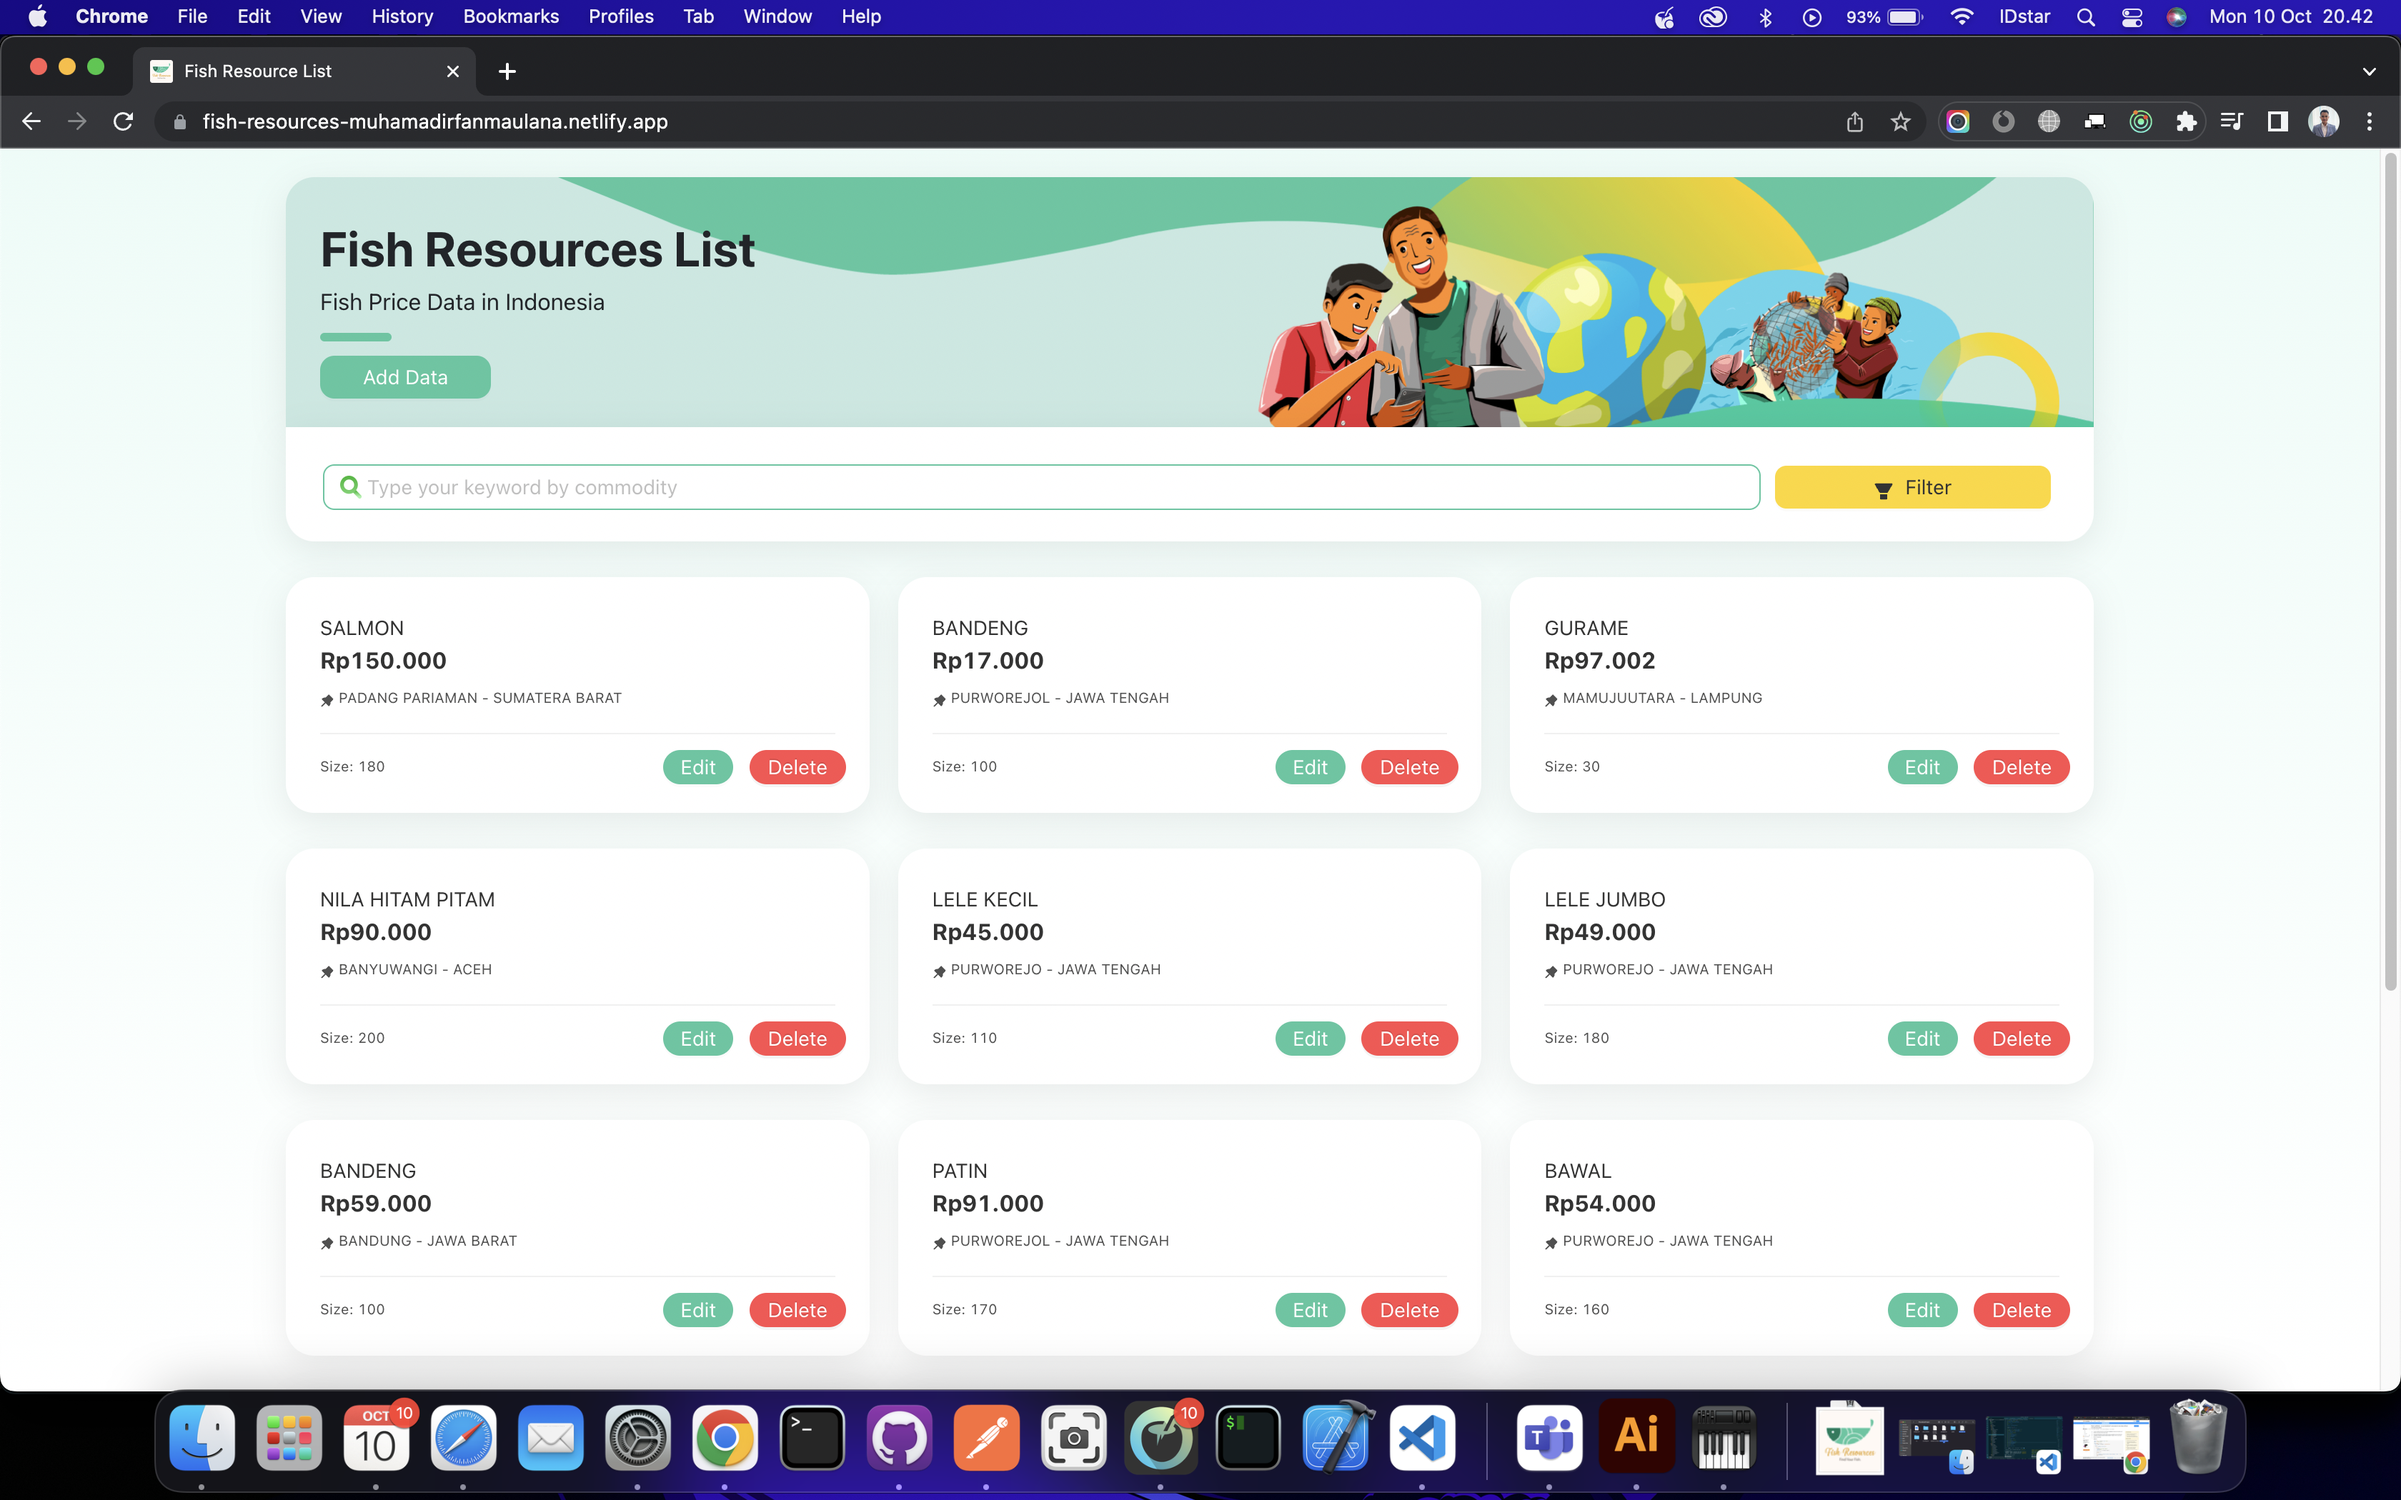
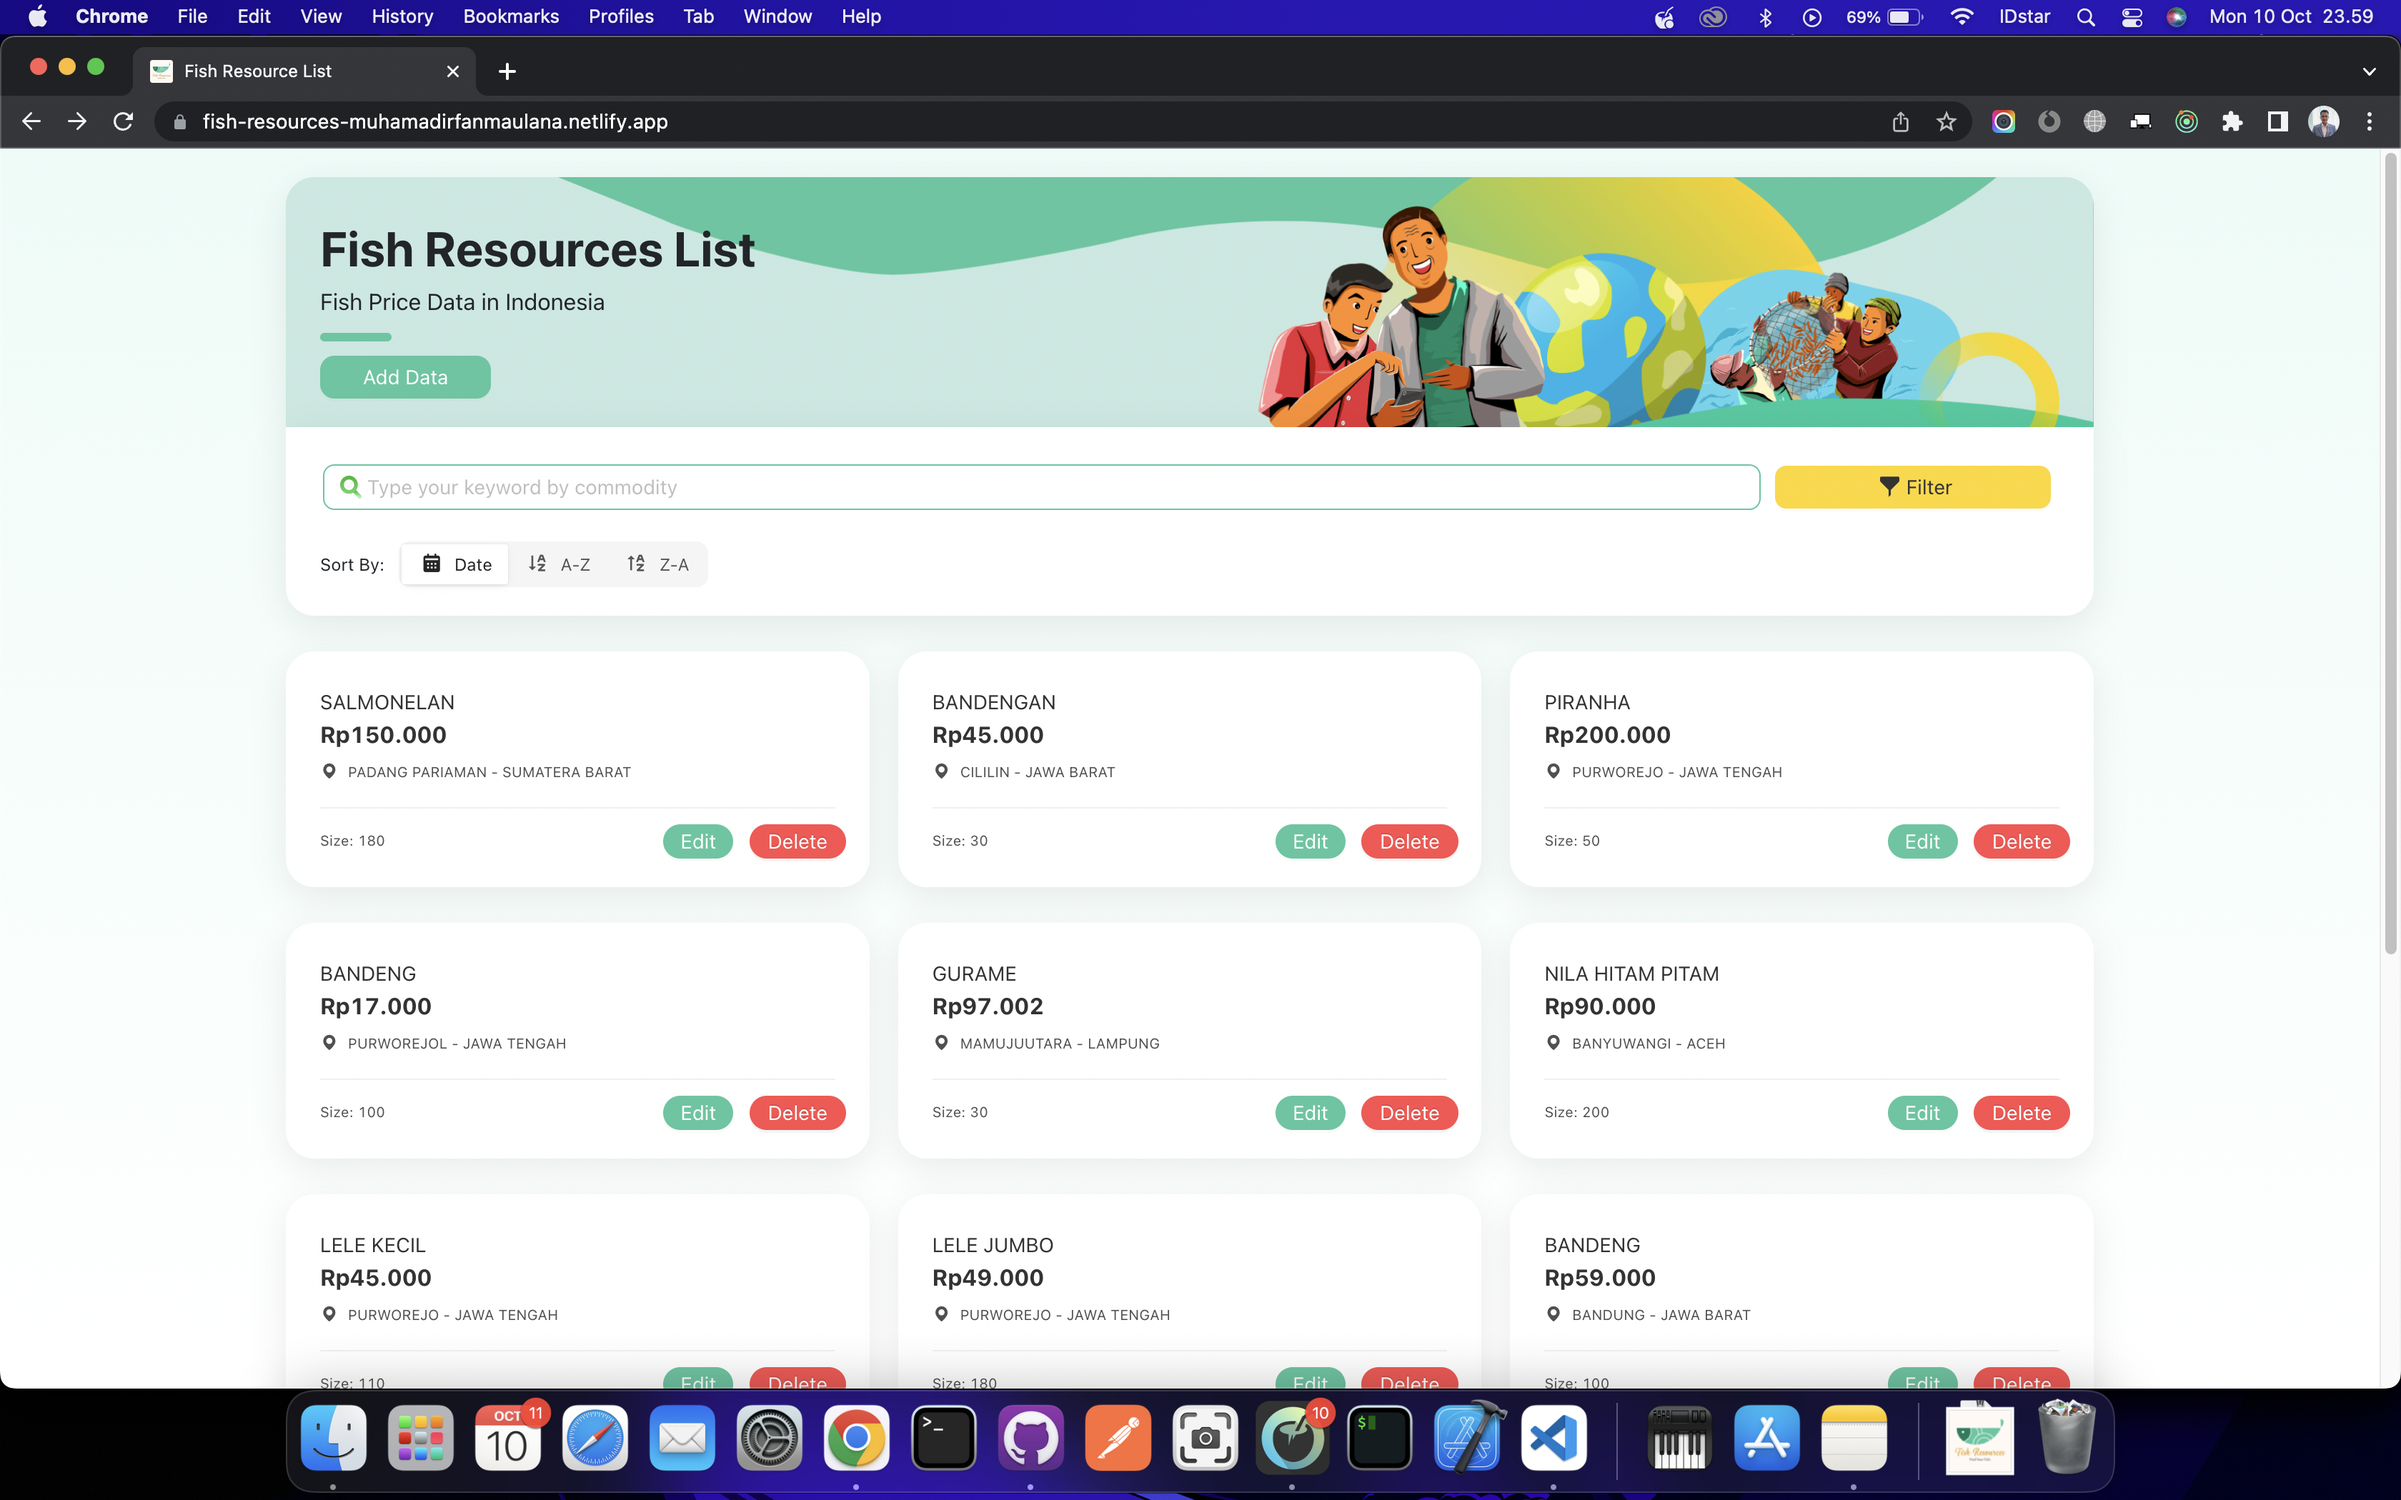
docs(explanation): Edit EXPLANATION.md
docs(explanation): Edit EXPLANATION.md

Edit Explanation.md to new version with sort feature

Closes

diff --git a/EXPLANATION.md b/EXPLANATION.md
@@ -85,6 +85,10 @@ This is the home page view. User can see list of fish resources with info like c
 [![Search][product-screenshot-3]](https://fish-resources-muhamadirfanmaulana.netlify.app/)
 [![Filter][product-screenshot-4]](https://fish-resources-muhamadirfanmaulana.netlify.app/)
 
+User also can sort the list by Date, Ascending, and Descending.
+
+[![Filter][product-screenshot-11]](https://fish-resources-muhamadirfanmaulana.netlify.app/)
+
 If the search result doesn't exist on the list, the portal will show 404 data not found.
 
 [![NotFound][product-screenshot-5]](https://fish-resources-muhamadirfanmaulana.netlify.app/)
